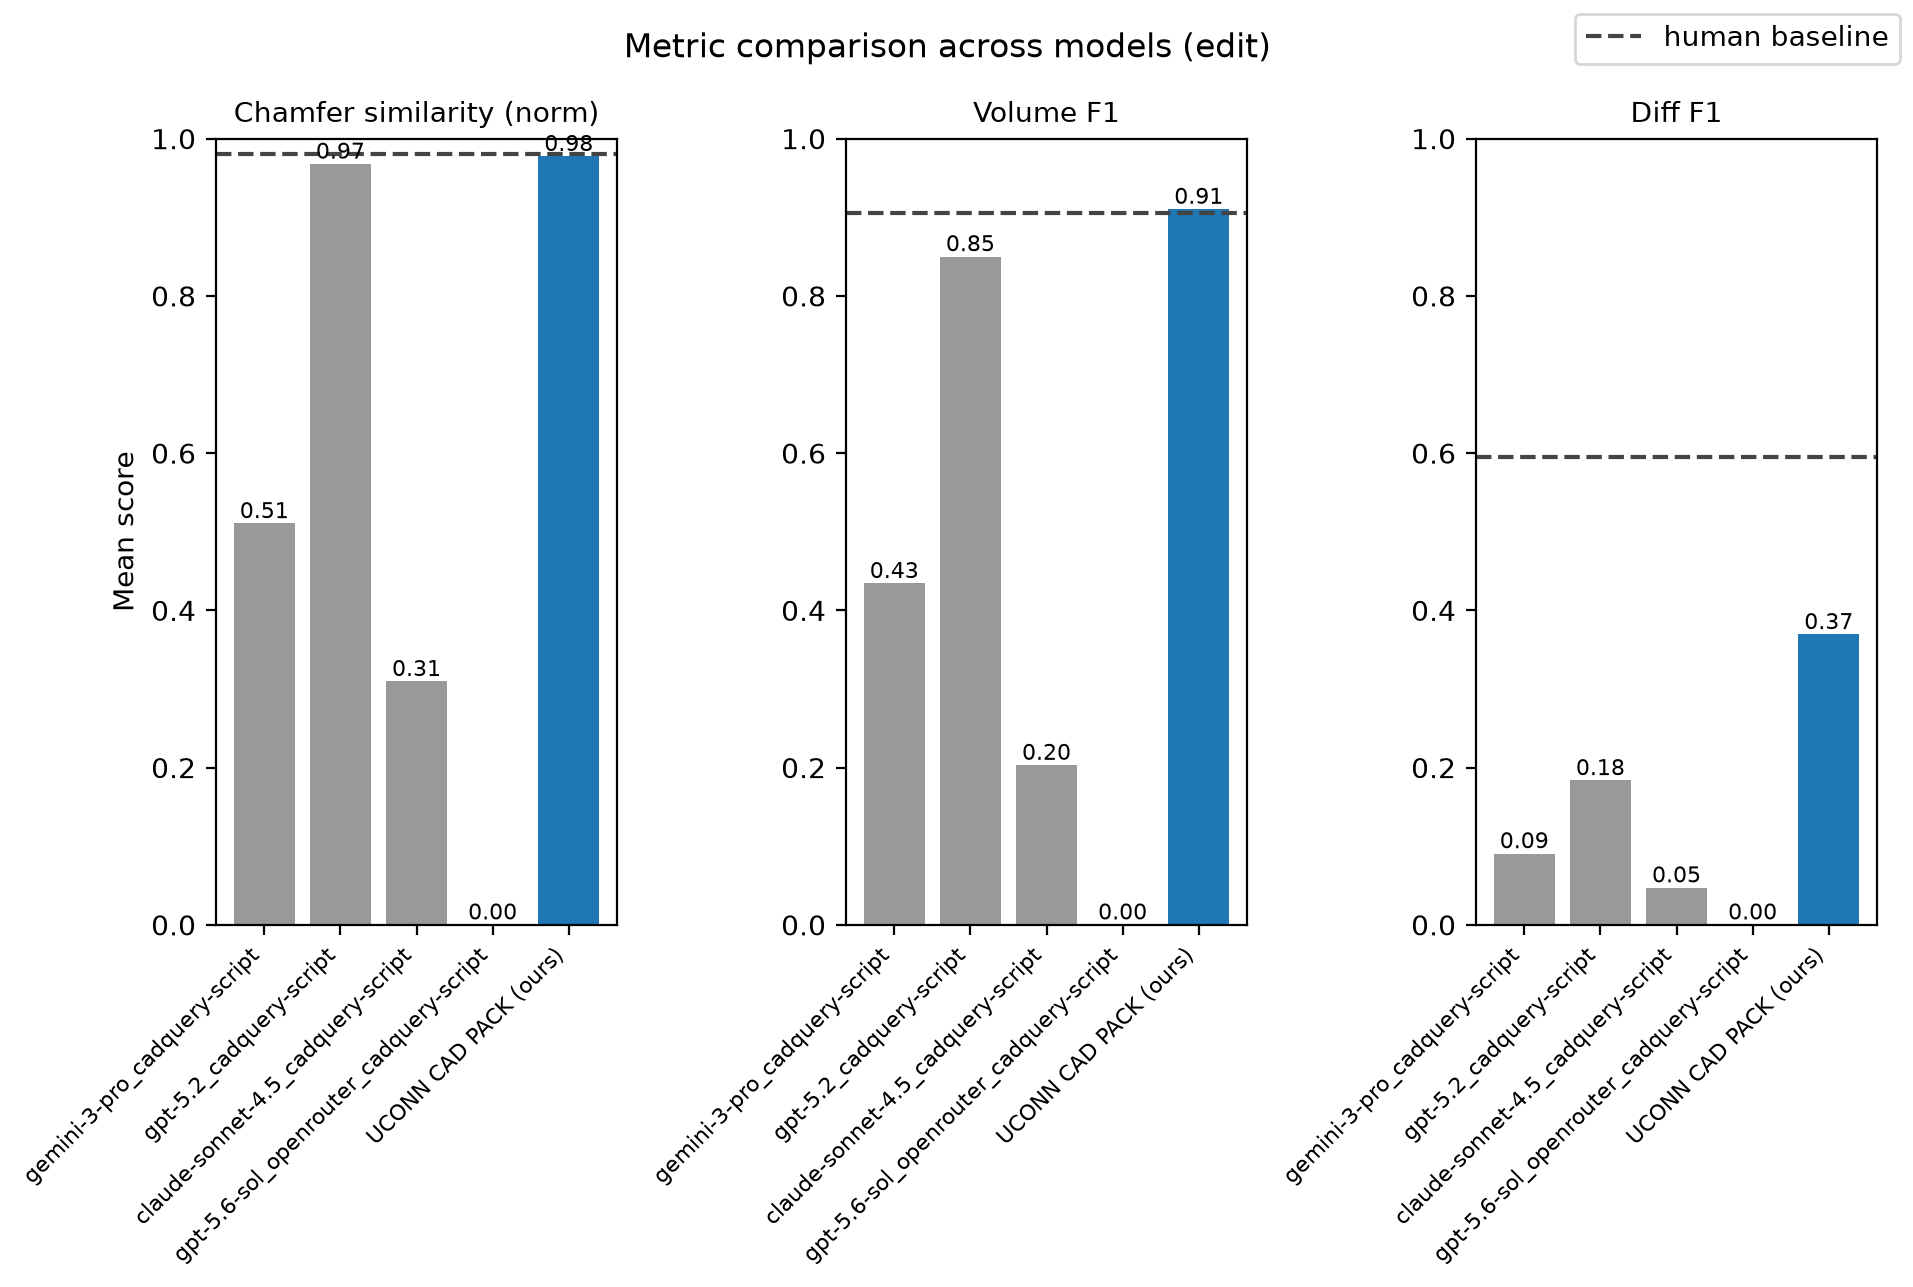
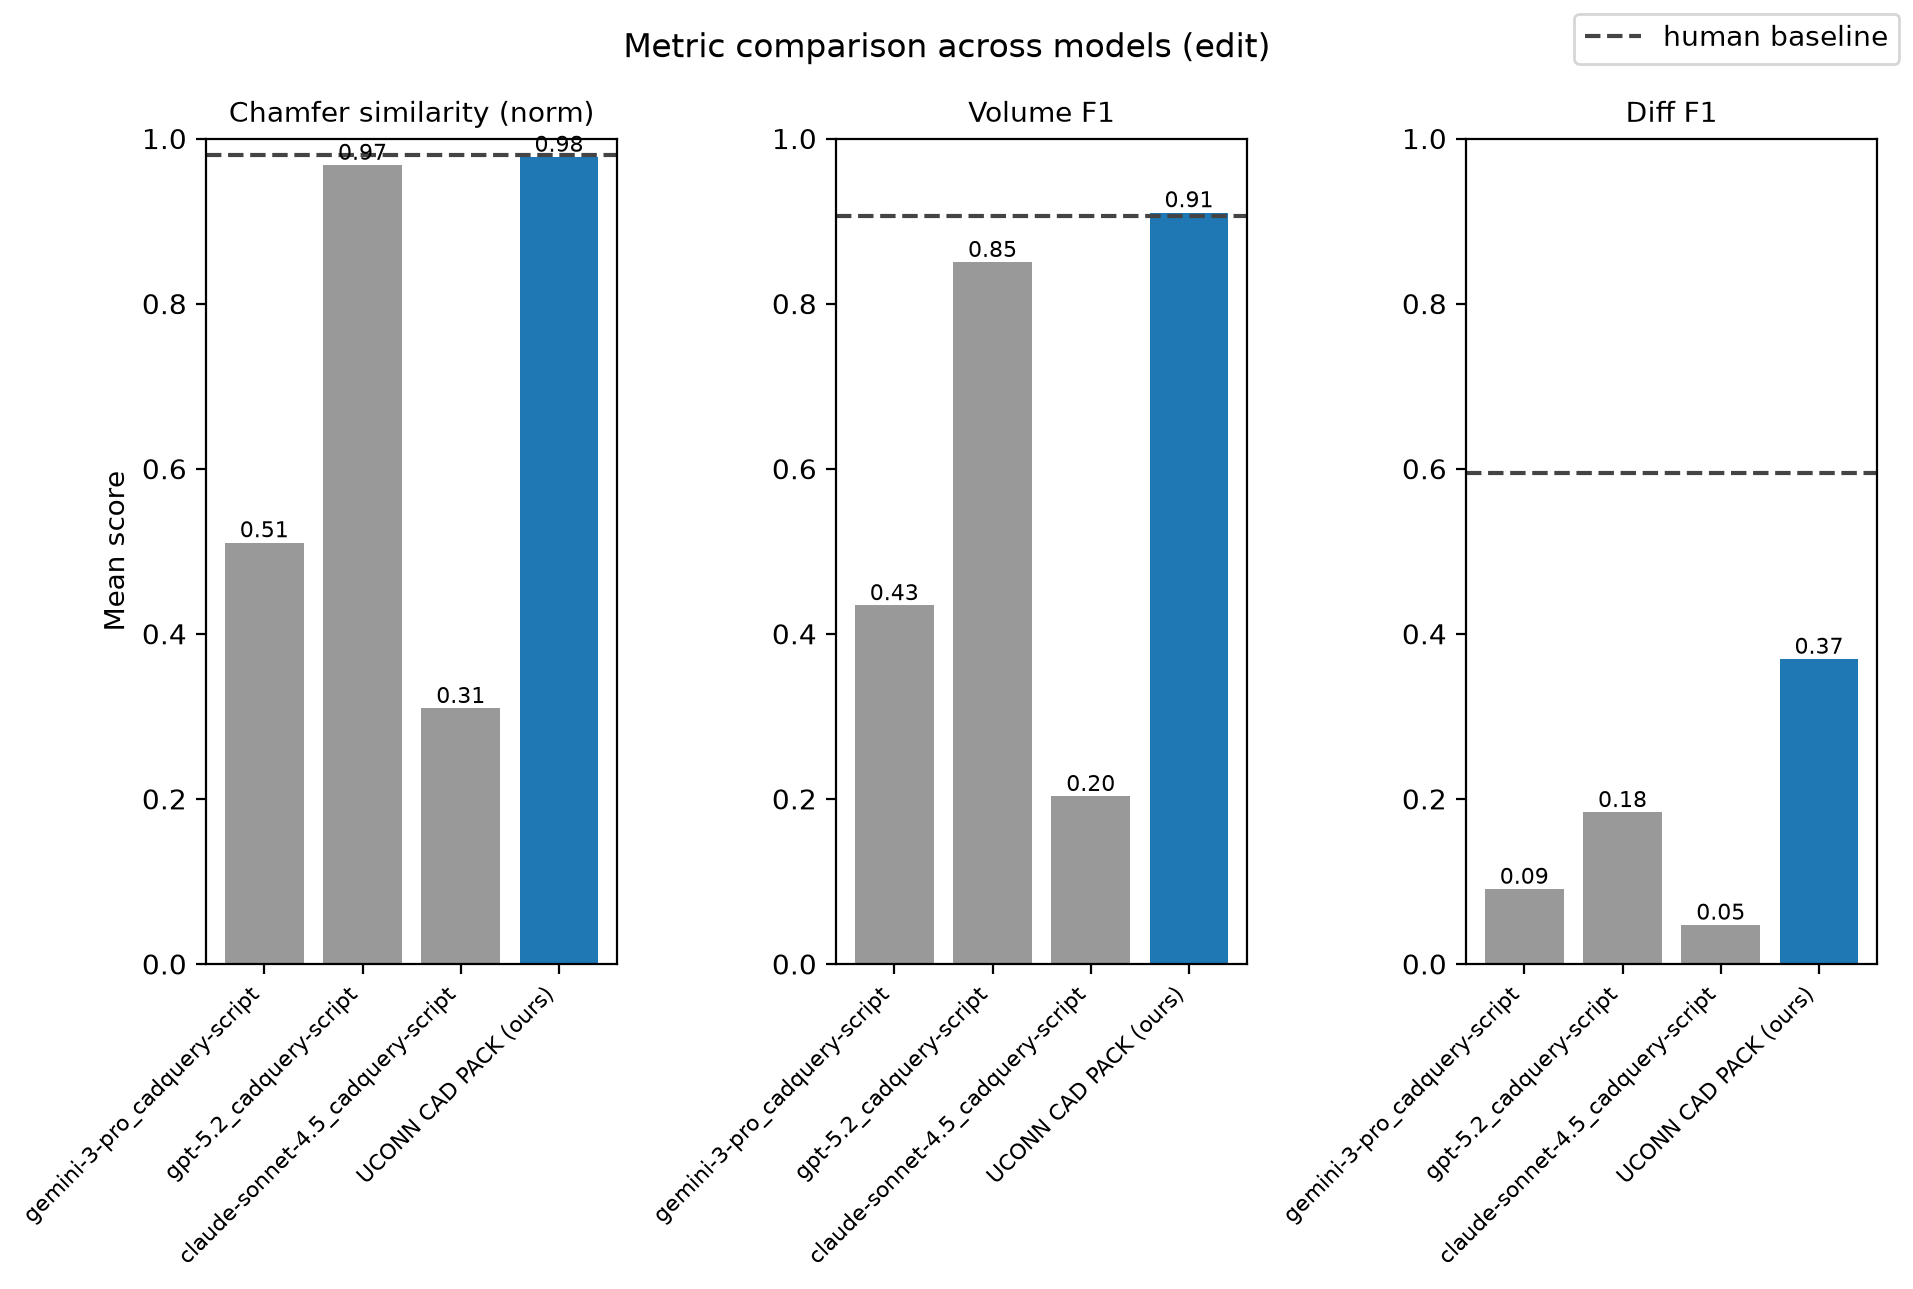
Drop gpt-5.6-sol from figures; document model per agent in the README

diff --git a/scripts/make_overall_mean_figure.py b/scripts/make_overall_mean_figure.py
@@ -41,11 +41,11 @@ if not REPO:
 METRICS = ["chamfer_similarity_norm", "volume_f1", "diff_f1"]
 OURS = "UCONN CAD PACK\n(ours)"
 HUMAN = "other human"
-MODELS = [  # config order of src/config/edit_192_external.json
+MODELS = [  # config order of src/config/edit_192_external.json;
+    # gpt-5.6-sol is omitted: the published results carry no scores for it
     ("gemini-3-pro_cadquery-script", "gemini-3-pro"),
     ("gpt-5.2_cadquery-script", "gpt-5.2"),
     ("claude-sonnet-4.5_cadquery-script", "claude-sonnet-4.5"),
-    ("gpt-5.6-sol_openrouter_cadquery-script", "gpt-5.6-sol"),
 ]
 
 INK = "#1c2333"

diff --git a/scripts/make_metric_figure.py b/scripts/make_metric_figure.py
@@ -65,8 +65,11 @@ def main():
         n += 1
     print(f"injected {n} scored requests as '{OURS}'")
 
-    cfg["benchmark_eval_users"]["edit"] = (
-        cfg["benchmark_eval_users"]["edit"] + [OURS])
+    # gpt-5.6-sol is dropped: the published results carry no scores for it
+    cfg["benchmark_eval_users"]["edit"] = [
+        u for u in cfg["benchmark_eval_users"]["edit"]
+        if not u.startswith("gpt-5.6-sol")
+    ] + [OURS]
     fig, axes = vr.faceted_bar_plot(cfg, results, request_type="edit", save=False)
 
     out = osp.join(SUB, "figures", "metric_bar_facets.png")

diff --git a/README.md b/README.md
@@ -42,6 +42,18 @@ The key ideas, in one paragraph each:
 
 - **Measurements decide, renders illustrate.** Every attempt is measured against the geometry it started from: volume delta, new-face regions, bounding box drift. A 5 mm gap on a 984 mm part is 2.5 pixels in a render; no image-based check can catch that, so the numbers gate first.
 
+### Which model runs which agent
+
+All three agents run the same model. One model per role is a deliberate config knob (a cheaper QA model is a legitimate cost lever), but every scored run in this repo used the defaults:
+
+| Agent | Model | Reasoning effort |
+|---|---|---|
+| Strategist | `gpt-5.2-2025-12-11` | medium |
+| Executor | `gpt-5.2-2025-12-11` | medium |
+| QA | `gpt-5.2-2025-12-11` | medium |
+
+The assignments live in `src/config.py` and can be overridden per role with the `MODEL_STRATEGIST`, `MODEL_EXECUTOR` and `MODEL_QA` environment variables (see `src/.env.example`). The gates use no model at all; they are deterministic geometry checks.
+
 A longer write-up is in `docs/method_overview.md`, and the same content is rendered live on tab 1 of the dashboard.
 
 ## The five selected test examples
